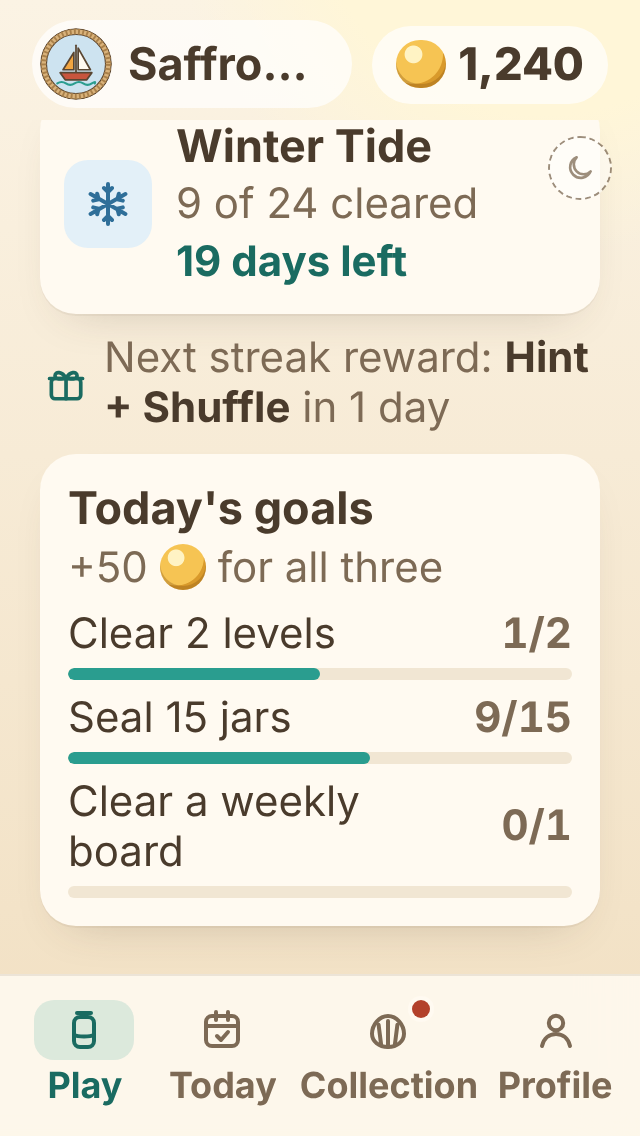
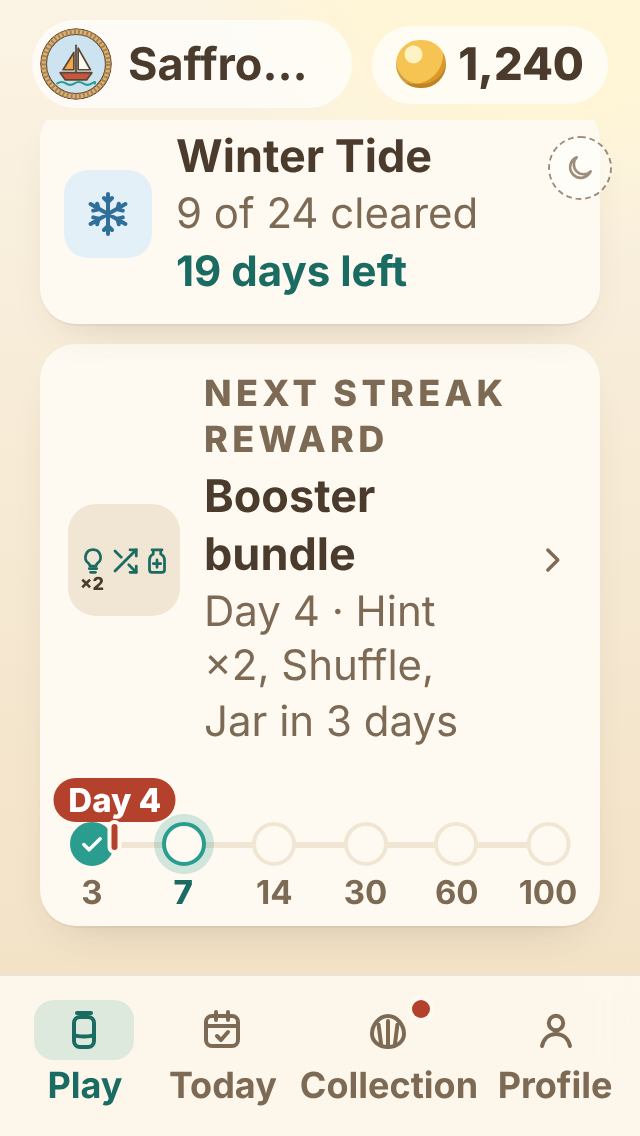
chore: Home mock-up, streak reward card and goals on Today (owner review)
Issue: strata-qkj

Claude-Session: https://claude.ai/code/session_0159TZnthw6jUQwzZniQXEcQ

diff --git a/prototypes/home-redesign/src/main.ts b/prototypes/home-redesign/src/main.ts
@@ -32,6 +32,18 @@ const D = {
   event: { name: 'Winter Tide', board: 12, cleared: 9, of: 24, days: 19 },
   weekly: { name: 'Fine Sieve', cleared: 2, of: 5, days: 2 },
 };
+// The real streak track (game-config.json daily.track): day 3 collected, streak 4, next day 7.
+type RewardKind = 'boosters' | 'frame' | 'style' | 'plate' | 'scene';
+const TRACK: { day: number; kind: RewardKind; name: string; what: string; boosters?: [string, number][] }[] = [
+  { day: 3, kind: 'boosters', name: 'Booster pair', what: 'Hint, Shuffle', boosters: [['hint', 1], ['shuffle', 1]] },
+  { day: 7, kind: 'boosters', name: 'Booster bundle', what: 'Hint ×2, Shuffle, Jar', boosters: [['hint', 2], ['shuffle', 1], ['jar', 1]] },
+  { day: 14, kind: 'frame', name: 'Tideline frame', what: 'Tideline frame' },
+  { day: 30, kind: 'style', name: 'Sea lantern glass', what: 'Sea lantern glass' },
+  { day: 60, kind: 'plate', name: 'Lighthouse plate', what: 'Lighthouse plate' },
+  { day: 100, kind: 'scene', name: 'Lighthouse night', what: 'Lighthouse night scene' },
+];
+const STREAK = 4;
+const NEXT = TRACK.find((t) => t.day > STREAK)!;
 const SHELLS = [
   { kind: 'spiral', colors: ['#7a5038', '#c9a27e'] },
   { kind: 'scallop', colors: ['#e3b38a', '#fff1e0'] },
@@ -54,6 +66,10 @@ const I = {
   sieve: '<path d="M5 6v10a2 2 0 0 0 4 0V6M10 6v10a2 2 0 0 0 4 0V6M15 6v10a2 2 0 0 0 4 0V6"/>',
   sun: '<circle cx="12" cy="12" r="4"/><path d="M12 2.5v2.5M12 19v2.5M2.5 12H5M19 12h2.5M5.3 5.3l1.8 1.8M16.9 16.9l1.8 1.8M5.3 18.7l1.8-1.8M16.9 7.1l1.8-1.8"/>',
   moon: '<path d="M20 14.5A8 8 0 1 1 9.5 4a6.5 6.5 0 0 0 10.5 10.5z"/>',
+  hint: '<path d="M9 18h6M10 21h4"/><path d="M12 3a6 6 0 0 0-3.5 10.9c.6.5 1 1.2 1 2.1h5c0-.9.4-1.6 1-2.1A6 6 0 0 0 12 3Z"/>',
+  shuffle: '<path d="M16 3h5v5"/><path d="M4 20 21 3"/><path d="M21 16v5h-5"/><path d="m15 15 6 6"/><path d="M4 4l5 5"/>',
+  jar: '<path d="M8 3h8M9 3v3.5c-2 1-3 2.6-3 4.5v8a2 2 0 0 0 2 2h8a2 2 0 0 0 2-2v-8c0-1.9-1-3.5-3-4.5V3"/><path d="M12 11v6M9 14h6"/>',
+  check: '<path d="M5 12.5l4.5 4.5L19 7.5"/>',
   gift: '<rect x="4" y="9" width="16" height="11" rx="2"/><path d="M3 9h18M12 9v11M12 9c-2-4-6-4-6-1.5S10 9 12 9zM12 9c2-4 6-4 6-1.5S14 9 12 9z"/>',
 };
 const ico = (k: keyof typeof I, cls = 'ico') => `<svg class="${cls}" viewBox="0 0 24 24" aria-hidden="true">${I[k]}</svg>`;
@@ -62,6 +78,55 @@ const bar = (n: number, of: number, label: string) =>
   `<span class="bar" role="progressbar" aria-label="${label}" aria-valuemin="0" aria-valuemax="${of}" aria-valuenow="${n}"><i style="width:${(100 * n) / of}%"></i></span>`;
 const cal = (small = false) => `<span class="cal${small ? ' cal-sm' : ''}" aria-hidden="true"><b>Thu</b><i>12</i></span>`;
 const portrait = (cls: string) => `<span class="portrait ${cls}" aria-hidden="true">${portraitSvg({ id: 'sailboat', bg: '#cde3f0' }, 'rope')}</span>`;
+
+/** The picture of a streak reward: booster icons, the frame on a portrait, a glass swatch, the plate, a scene swatch. */
+function rewardArt(r: (typeof TRACK)[number], size: 'md' | 'sm' = 'md'): string {
+  const c = `reward-art ra-${r.kind} ra-${size}`;
+  switch (r.kind) {
+    case 'boosters':
+      return `<span class="${c}" aria-hidden="true">${r.boosters!.map(([k, n]) => `<span class="boost">${ico(k as keyof typeof I)}${n > 1 ? `<b>×${n}</b>` : ''}</span>`).join('')}</span>`;
+    case 'frame':
+      return `<span class="${c}" aria-hidden="true">${portraitSvg({ id: 'sailboat', bg: '#cde3f0' }, 'tideline')}</span>`;
+    case 'style':
+      return `<span class="${c}" aria-hidden="true"><i></i></span>`;
+    case 'plate':
+      return `<span class="${c}" aria-hidden="true"><span><svg viewBox="0 0 12 14"><path d="M4.5 13 5.3 4h1.4l.8 9zM4.6 4h2.8M6 1.5V4M2 3l2 .8M10 3 8 3.8"/></svg></span></span>`;
+    case 'scene':
+      return `<span class="${c}" aria-hidden="true"><i class="moon-dot"></i></span>`;
+  }
+}
+
+/** The six reward days on one line: collected days ticked, the streak marked, the next day lit. */
+function track(): string {
+  const last = TRACK[TRACK.length - 1].day;
+  // Evenly spaced stops; the streak marker sits between the stops it falls between.
+  const pos = (d: number) => {
+    const i = TRACK.findIndex((t) => t.day >= d);
+    if (i <= 0) return (d / TRACK[0].day) * 0;
+    const a = TRACK[i - 1].day, b = TRACK[i].day;
+    return ((i - 1 + (d - a) / (b - a)) / (TRACK.length - 1)) * 100;
+  };
+  const here = pos(STREAK);
+  return `<div class="strk" role="img" aria-label="Streak ${STREAK} days. Reward days ${TRACK.map((t) => t.day).join(', ')}; day 3 collected; next day ${NEXT.day}.">
+    <span class="strk-line"><i style="width:${here}%"></i></span>
+    <span class="strk-here" style="left:${here}%"><b>Day ${STREAK}</b></span>
+    ${TRACK.map((t, i) => {
+      const st = t.day <= STREAK ? 'got' : t === NEXT ? 'next' : '';
+      return `<span class="strk-stop ${st}" style="left:${(i / (TRACK.length - 1)) * 100}%"><i>${st === 'got' ? ico('check') : ''}</i><small>${t.day}</small></span>`;
+    }).join('')}
+    <span class="sr-only">${last}</span>
+  </div>`;
+}
+
+function streakCard(): string {
+  const days = NEXT.day - STREAK;
+  return `<button class="card streak-card" type="button" data-go="today" data-anchor="streak-h" aria-label="Next streak reward: ${NEXT.name}, ${NEXT.what}, in ${days} days. Day ${STREAK} of your streak. See all streak rewards">
+    <span class="streak-top">${rewardArt(NEXT)}
+      <span class="mini-text"><span class="eyebrow">Next streak reward</span><strong>${NEXT.name}</strong><span class="soft">Day ${STREAK} · ${NEXT.what} in ${days} days</span></span>
+      ${ico('chev', 'ico chev')}</span>
+    ${track()}
+  </button>`;
+}
 
 // ---- Views ----
 function goalRows(): string {
@@ -98,22 +163,11 @@ function playView(): string {
         <span class="mini-text"><strong>${D.event.name}</strong><span class="soft">${D.event.cleared} of ${D.event.of} cleared</span><span class="accent">${D.event.days} days left</span></span>
       </button>
     </div>
-    <p class="next-reward">${ico('gift', 'ico ico-sm')}<span>Next streak reward: <b>${D.nextReward.what}</b> in ${D.nextReward.inDays} day</span></p>
-    <div class="card goals" role="group" aria-label="Today's goals">
-      <span class="goals-head"><strong>Today's goals</strong><span class="soft">+${D.goalsBonus} ${coin} for all three</span></span>
-      <ul class="goal-list">${goalRows()}</ul>
-    </div>
+    ${streakCard()}
   </section>`;
 }
 
 function todayView(): string {
-  const stops = [
-    { day: 5, what: 'Hint + Shuffle', next: true },
-    { day: 7, what: 'Cockle shell' },
-    { day: 14, what: 'Rope frame' },
-    { day: 30, what: '300 coins' },
-    { day: 60, what: 'Lighthouse plate' },
-  ];
   return `
   <div class="page">
     <button class="card big-daily" type="button" data-act="Today's daily puzzle">
@@ -124,9 +178,10 @@ function todayView(): string {
 
     <section class="card section" aria-labelledby="streak-h">
       <div class="sec-head"><h2 id="streak-h">Streak rewards</h2><span class="accent">${D.streak}-day streak</span></div>
-      <ol class="track">
-        ${stops.map((s) => `<li class="${s.next ? 'next' : ''}"><span class="dot" aria-hidden="true"></span><b>Day ${s.day}</b><span>${s.what}</span></li>`).join('')}
-      </ol>
+      ${track()}
+      <ul class="reward-list">
+        ${TRACK.map((t) => `<li class="${t.day <= STREAK ? 'got' : t === NEXT ? 'next' : ''}">${rewardArt(t, 'sm')}<span class="mini-text"><strong>${t.name}</strong><span class="soft">Day ${t.day}${t.kind === 'boosters' ? ` · ${t.what}` : ''}${t.day <= STREAK ? ' · collected' : t === NEXT ? ` · in ${NEXT.day - STREAK} days` : ''}</span></span>${t.day <= STREAK ? ico('check', 'ico tick') : ''}</li>`).join('')}
+      </ul>
       <p class="soft small">2 tide passes held: a missed day won't break the streak.</p>
     </section>
 
@@ -293,6 +348,7 @@ document.addEventListener('click', (e) => {
   if (el.dataset.go) {
     select(el.dataset.go as Tab);
     if (el.hasAttribute('data-settings')) document.getElementById('settings')?.scrollIntoView({ block: 'start' });
+    if (el.dataset.anchor) document.getElementById(el.dataset.anchor)?.closest('section')?.scrollIntoView({ block: 'start' });
     return;
   }
   if (el.classList.contains('switch')) return el.setAttribute('aria-checked', String(el.getAttribute('aria-checked') !== 'true'));

diff --git a/prototypes/home-redesign/src/style.css b/prototypes/home-redesign/src/style.css
@@ -116,7 +116,7 @@ button { font: inherit; color: inherit; cursor: pointer; }
 .hero-head { position: relative; text-align: center; z-index: 2; }
 .brand { display: block; font-weight: 800; font-size: 0.75rem; letter-spacing: 0.24em; text-transform: uppercase; color: var(--ink-soft); }
 .hero-level { margin: 2px 0 0; font-size: 2.25rem; font-weight: 800; letter-spacing: -0.01em; line-height: 1.1; }
-.hero-canvas { position: relative; display: block; width: 100%; height: clamp(250px, 82vw, 390px); z-index: 1; }
+.hero-canvas { position: relative; display: block; width: 100%; height: clamp(240px, 74vw, 360px); z-index: 1; }
 .sky, .sea, .beach, .sweep { position: absolute; left: 0; right: 0; pointer-events: none; }
 .sky { inset: 0; z-index: 0; }
 .moon { display: none; }
@@ -330,7 +330,7 @@ body[data-theme='moonlit'] .new-mark { color: #0e1a30; }
   width: 32px; height: 32px; display: grid; place-items: center; padding: 0; border-radius: 50%;
   border: 1px dashed var(--ink-soft); background: var(--surface); color: var(--ink-soft); opacity: 0.75;
 }
-body:not([data-tab='play']) .mock-theme { top: auto; bottom: calc(84px + env(safe-area-inset-bottom)); }
+body:not([data-tab='play']) .mock-theme { top: calc(23px + env(safe-area-inset-top)); left: 50%; right: auto; transform: translateX(-50%); }
 .mock-theme .ico { width: 16px; height: 16px; }
 .mock-theme span { display: none; }
 .toast {
@@ -353,3 +353,45 @@ body:not([data-tab='play']) .mock-theme { top: auto; bottom: calc(84px + env(saf
 }
 .still *, .still *::before, .still *::after { animation: none !important; transition: none !important; }
 .tile-art.scenes { margin-top: 12px; height: 56px; }
+
+/* ---- Streak reward card (owner's change, 2026-11-12) ---- */
+.streak-card { flex-direction: column; gap: 14px; margin-top: 10px; padding: 14px 14px 12px; }
+.streak-top { display: flex; align-items: center; gap: 12px; width: 100%; }
+.streak-top .mini-text { flex: 1; }
+.reward-art { flex: none; display: flex; align-items: center; justify-content: center; width: 56px; height: 56px; border-radius: 14px; background: var(--surface-2); position: relative; }
+.reward-art.ra-sm { width: 44px; height: 44px; border-radius: 12px; }
+.ra-boosters { gap: 1px; padding: 0 3px; color: var(--accent-text); }
+.ra-boosters .boost { position: relative; display: grid; place-items: center; }
+.ra-boosters .ico { width: 15px; height: 15px; stroke-width: 2.2; }
+.ra-sm.ra-boosters .ico { width: 12px; height: 12px; }
+.ra-boosters b { position: absolute; left: 50%; top: 100%; transform: translateX(-50%); font-size: 9px; line-height: 1; font-weight: 800; color: var(--ink); }
+.ra-sm.ra-boosters b { font-size: 8px; }
+.ra-frame { background: none; }
+.ra-frame svg { width: 100%; height: 100%; }
+.ra-style i { width: 22px; height: 38px; border-radius: 5px 5px 9px 9px; border: 2.5px solid #5fa8a0; background: linear-gradient(180deg, rgba(160, 220, 210, 0.35), rgba(95, 168, 160, 0.55)); box-shadow: inset 3px 0 0 rgba(255, 255, 255, 0.5); }
+.ra-sm.ra-style i { width: 17px; height: 29px; }
+.ra-plate > span { display: grid; place-items: center; width: 70%; height: 36%; border-radius: 999px; background: #23354f; border: 1.5px solid #c9a24a; }
+.ra-plate svg { height: 75%; fill: none; stroke: #fff3d6; stroke-width: 1.2; stroke-linecap: round; stroke-linejoin: round; }
+.ra-scene { background: linear-gradient(#0e1a30, #23354f 62%, #18465a 62%); }
+.ra-scene .moon-dot { position: absolute; right: 9px; top: 8px; width: 9px; height: 9px; border-radius: 50%; background: #fffbe8; box-shadow: 0 0 8px 2px rgba(232, 240, 255, 0.4); }
+.strk { position: relative; width: calc(100% - 24px); margin: 22px 12px 18px; height: 22px; }
+.strk-line { position: absolute; left: 0; right: 0; top: 10px; height: 3px; border-radius: 2px; background: var(--surface-2); }
+.strk-line i { display: block; height: 100%; border-radius: 2px; background: var(--accent); }
+.strk-stop { position: absolute; top: 0; transform: translateX(-50%); display: flex; flex-direction: column; align-items: center; gap: 3px; }
+.strk-stop i { display: grid; place-items: center; width: 22px; height: 22px; border-radius: 50%; background: var(--card); border: 2px solid var(--surface-2); }
+.strk-stop.got i { background: var(--accent); border-color: var(--accent); color: var(--accent-ink); }
+.strk-stop.got .ico { width: 14px; height: 14px; stroke-width: 3; }
+.strk-stop.next i { border-color: var(--accent); box-shadow: 0 0 0 4px color-mix(in srgb, var(--accent) 22%, transparent); }
+.strk-stop small { font-size: 0.6875rem; font-weight: 700; color: var(--ink-soft); }
+.strk-stop.next small { color: var(--accent-text); font-weight: 800; }
+.strk-here { position: absolute; top: -22px; transform: translateX(-50%); z-index: 1; display: flex; flex-direction: column; align-items: center; }
+.strk-here b { display: block; white-space: nowrap; padding: 1px 7px; border-radius: 999px; background: var(--coral-text); color: #fff; font-size: 0.6875rem; font-weight: 800; }
+.strk-here::after { content: ''; width: 3px; height: 13px; margin-top: 1px; border-radius: 2px; background: var(--coral-text); box-shadow: 0 0 0 2px var(--card); }
+body[data-theme='moonlit'] .strk-here b { color: #0e1a30; }
+.section .strk { margin-top: 30px; }
+.reward-list { list-style: none; margin: 4px 0 12px; padding: 0; display: grid; gap: 10px; }
+.reward-list li { display: flex; align-items: center; gap: 12px; }
+.reward-list li .mini-text { flex: 1; }
+.reward-list li.next strong { color: var(--accent-text); }
+.reward-list li.got { opacity: 0.7; }
+.tick { color: var(--accent-text); width: 20px; height: 20px; }

diff --git a/prototypes/home-redesign/README.md b/prototypes/home-redesign/README.md
@@ -14,9 +14,11 @@ stays one tap away.
 - **Play:** three jars on a beach. The middle one is filled from a glass funnel that trickles sand. The
   sand is painted by the real `paintGrid` with its corner mask, and the glass is the real `drawJarArt`. When
   the funnel is empty, the scene cross-fades back to the start and the next cycle uses a new colour.
-  Above the jars: "Strata · Level 52". Below: Play, then the Today strip (daily, event, next streak
-  reward, goals). The chip and coins sit small at the top.
-- **Today:** daily, streak reward track, goals, weekly set, Winter Tide.
+  Above the jars: "Strata · Level 52". Below: Play, then the Today strip: the daily and Winter Tide cards, and a
+  streak reward card. That card shows the next reward's picture and name, and a track of the six reward days
+  (3, 7, 14, 30, 60, 100) with the collected days ticked, "Day 4" marked and day 7 lit. Tapping it opens Today's
+  streak rewards. Today's goals now sit only on the Today tab (owner's change, 2026-11-12). The chip and coins sit small at the top.
+- **Today:** daily, streak rewards (the track plus a list of all six, each with its picture), goals, weekly set, Winter Tide.
 - **Collection:** shells, badges, jar styles, scenes ("New") and the beach path map. The tab carries the "new" dot.
 - **Profile:** portrait and plate, stats and Settings. The gear on Today and Collection jumps here.
 - **Motion:** the trickle, a light sweep every 11 s, two wave lines drifting, the shore's foam and the
